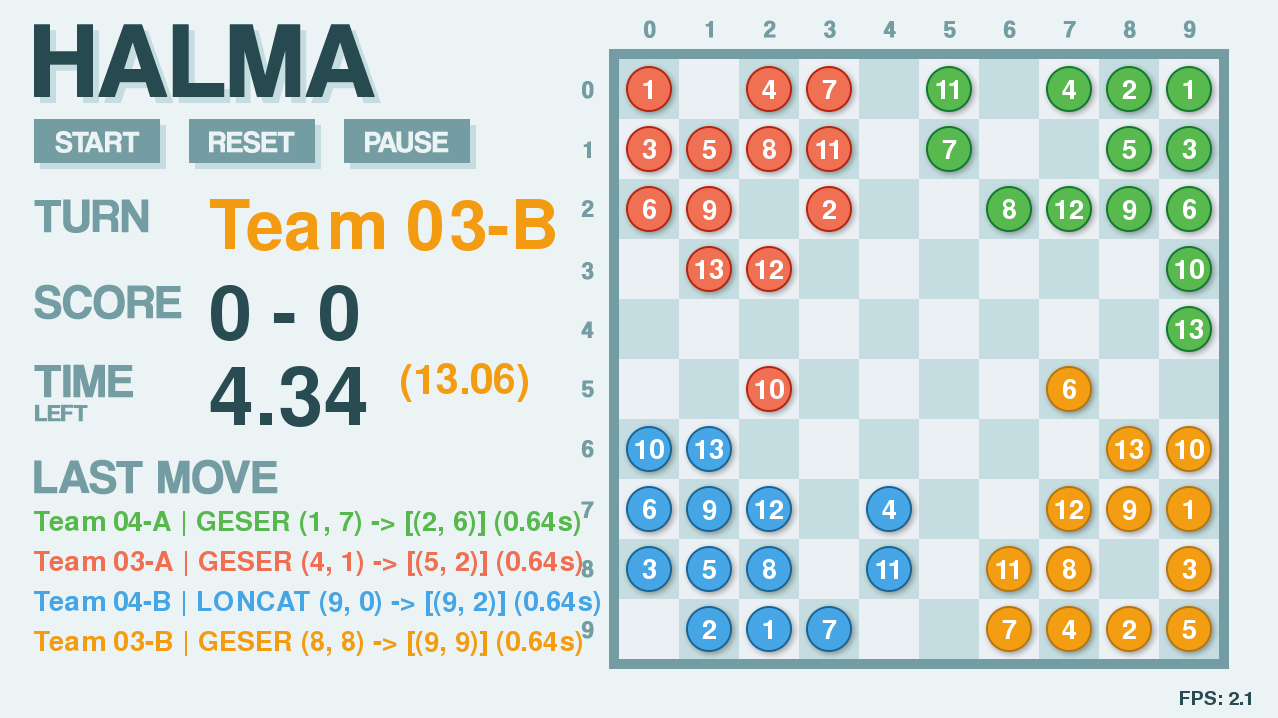
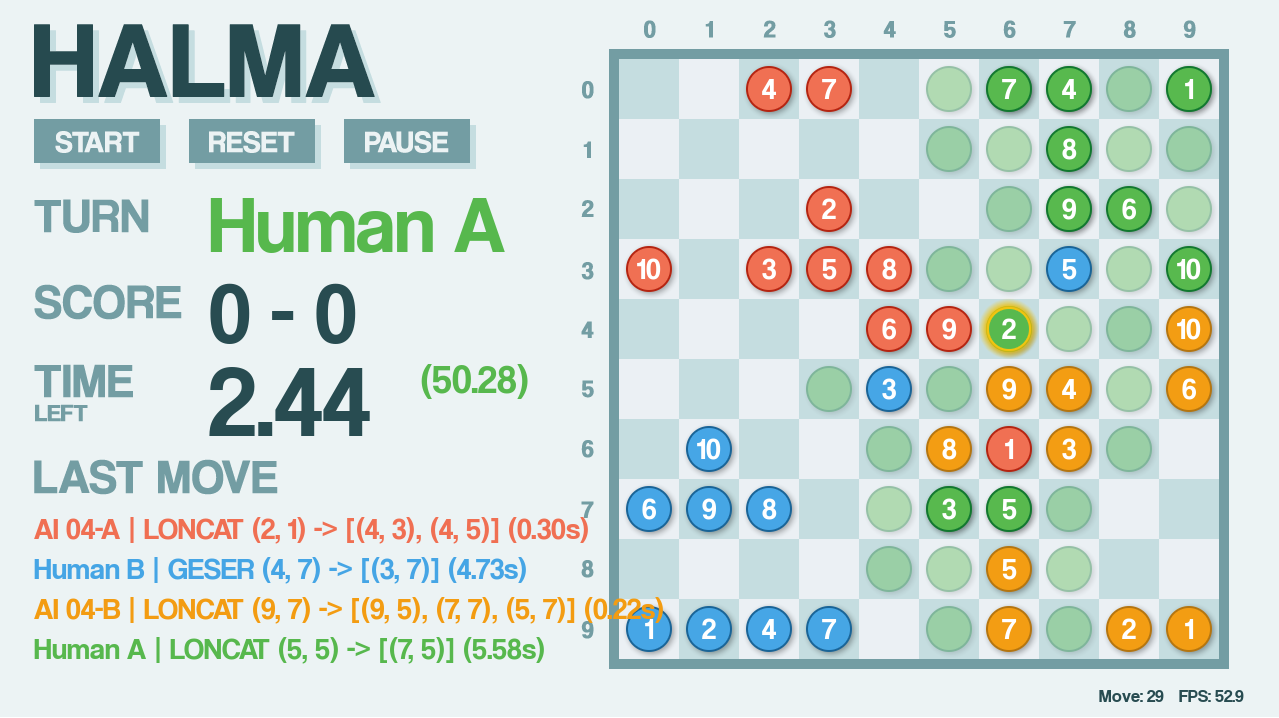
Update readme and added screenshot

diff --git a/README.md b/README.md
@@ -16,15 +16,16 @@ Font: Coolvetica (https://www.dafont.com/coolvetica.font)
 - Game configuration screen with board piece animation
 - 8x8 and 10x10 board size (8x8 currently not supported by game model)
 - Beautiful Light Mode and Dark Mode 
-- AI vs AI team picker with customizable color
+- AI vs AI or human team picker with customizable color
 - Informative team name, move history, and move timer
 
 ## Latest Changes
+- Added human player support
 - Added 4-Player support (Team 2 vs 2)
 - Multiple rounds
 
 ## To be developed
-- Human Player (Human vs AI) or even Human vs Human?
+- Online match
 - Debug/Strategy mode built for AI development
 - Multiprocessing/Multithreading GUI element and AI computation to be parallel (continuous timer)
 - PyPI package
